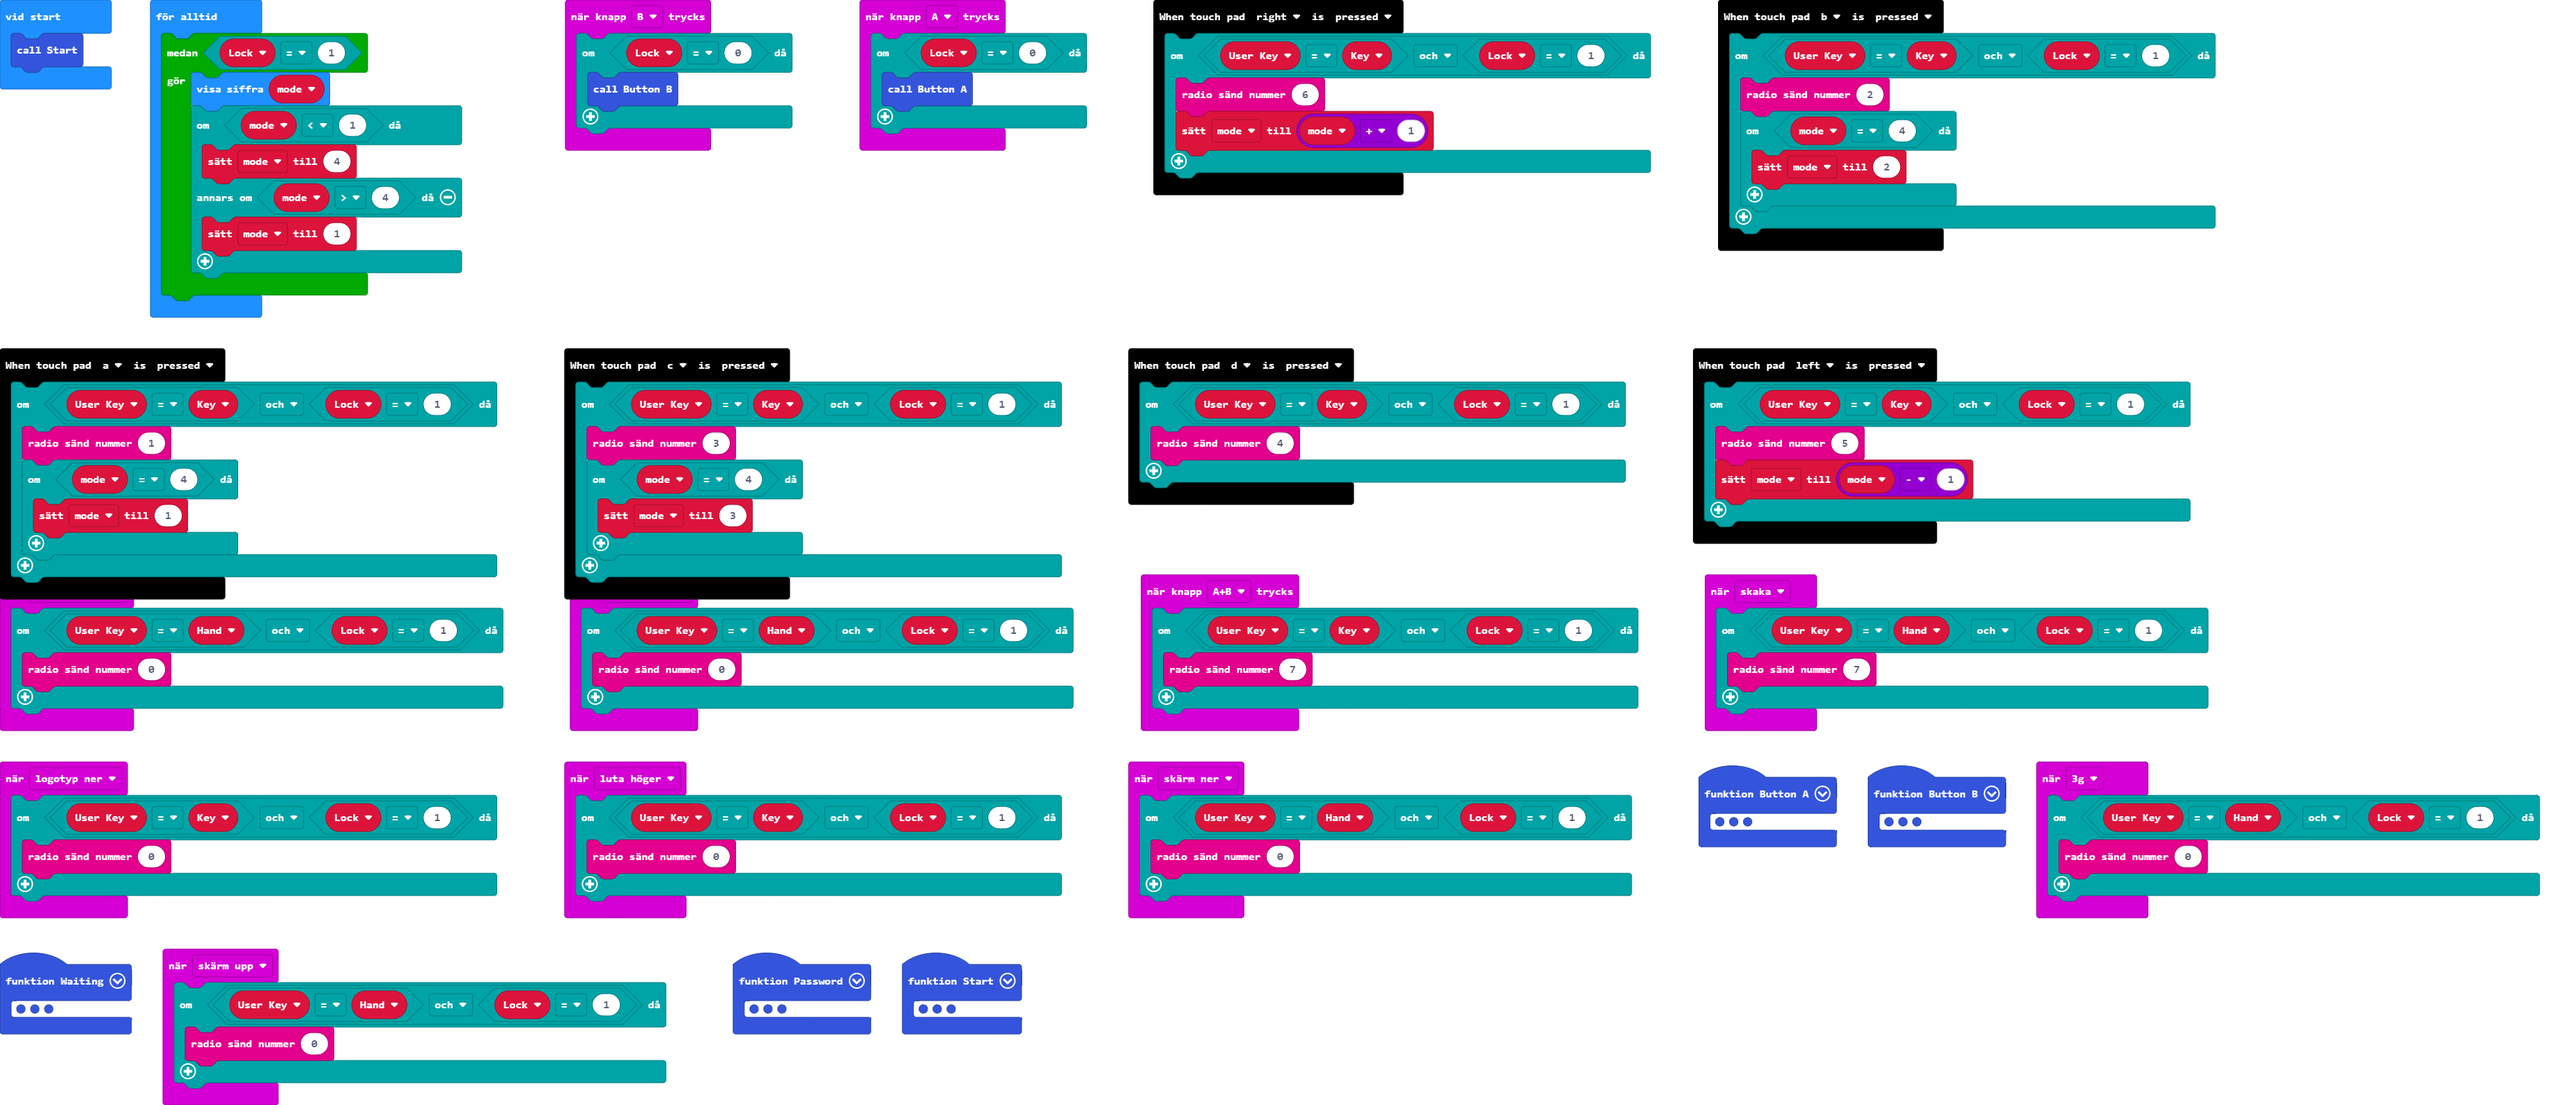
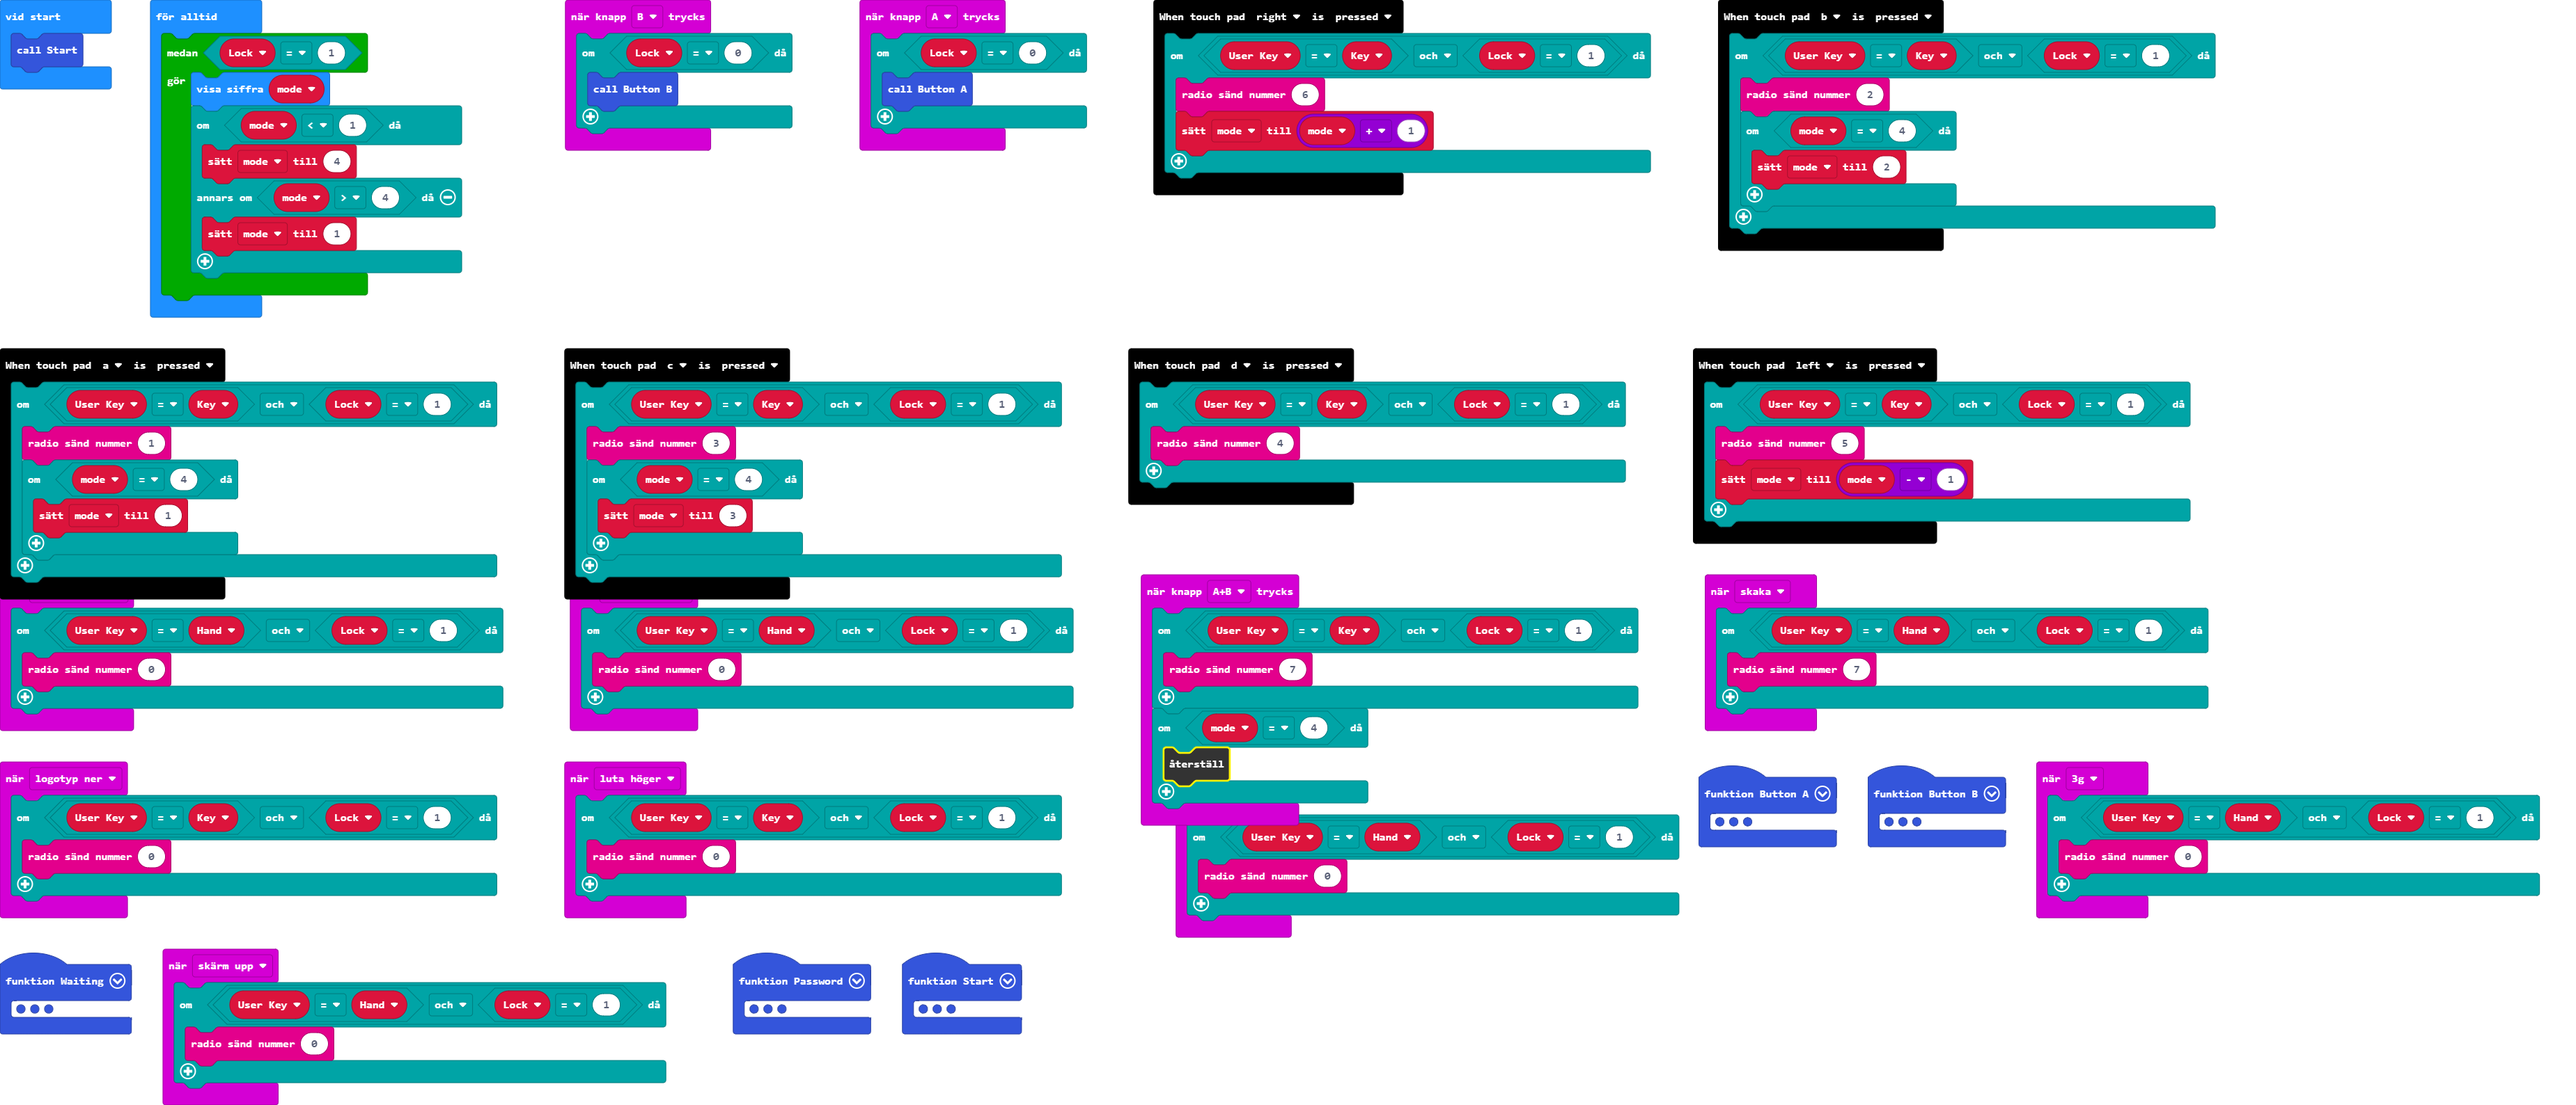
Update main.blocks, main.ts

Changed region(s): [[0.4353, 0.6171, 0.6529, 0.864]]

diff --git a/main.ts b/main.ts
@@ -127,6 +127,9 @@ input.onButtonPressed(Button.AB, function () {
     if (User_Key == Key && Lock == 1) {
         radio.sendNumber(7)
     }
+    if (mode == 4) {
+        control.reset()
+    }
 })
 input.onButtonPressed(Button.B, function () {
     if (Lock == 0) {
